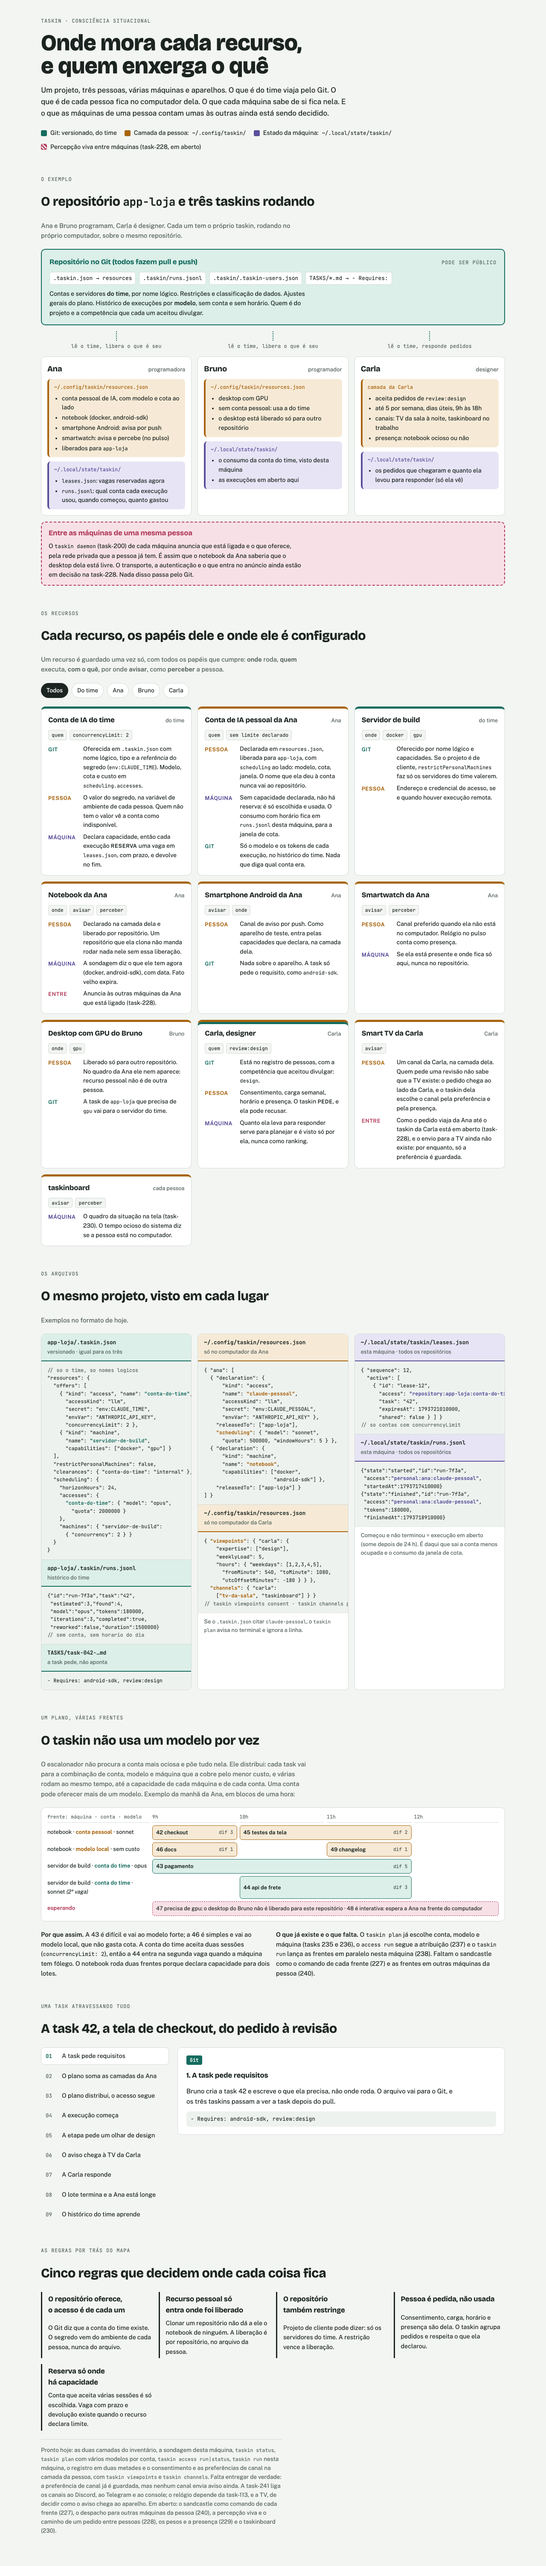
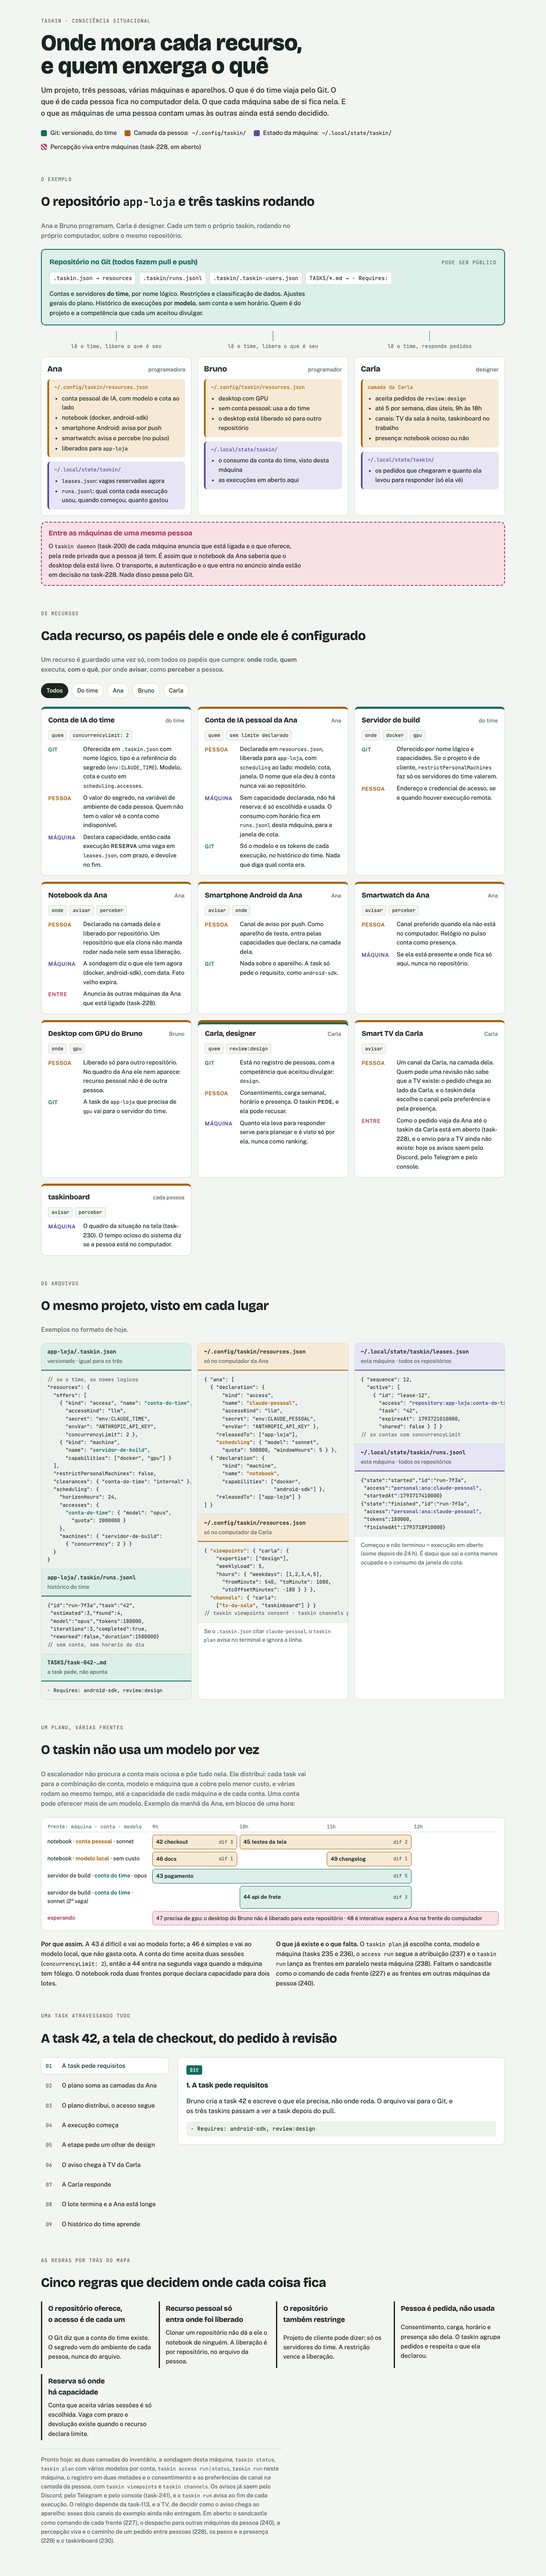
docs(task-241): o mapa, o RDT e a task depois do lote 8
O mapa e o RDT dizem que os avisos ja saem por Discord, Telegram e console, e
que o relogio e a TV ainda nao entregam. A task-241 registra o que a rodada nao
exercitou: o envio real, e os canais do exemplo do README que nao tem provedor.

diff --git a/docs/RDT/consciencia-situacional-mapa.html b/docs/RDT/consciencia-situacional-mapa.html
@@ -437,7 +437,7 @@ pre {
       <div class="chips"><span class="chip">avisar</span></div>
       <div class="rows">
         <div class="row"><b class="p">Pessoa</b><span>Um canal da Carla, na camada dela. Quem pede uma revisão não sabe que a TV existe: o pedido chega ao lado da Carla, e o taskin dela escolhe o canal pela preferência e pela presença.</span></div>
-        <div class="row"><b class="n">Entre</b><span>Como o pedido viaja da Ana até o taskin da Carla está em aberto (task-228), e o envio para a TV ainda não existe: por enquanto, só a preferência é guardada.</span></div>
+        <div class="row"><b class="n">Entre</b><span>Como o pedido viaja da Ana até o taskin da Carla está em aberto (task-228), e o envio para a TV ainda não existe: hoje os avisos saem pelo Discord, pelo Telegram e pelo console.</span></div>
       </div>
     </article>
 
@@ -618,7 +618,7 @@ pre {
     <div class="rule"><h3>Pessoa é pedida, não usada</h3><p>Consentimento, carga, horário e presença são dela. O taskin agrupa pedidos e respeita o que ela declarou.</p></div>
     <div class="rule"><h3>Reserva só onde há capacidade</h3><p>Conta que aceita várias sessões é só escolhida. Vaga com prazo e devolução existe quando o recurso declara limite.</p></div>
   </div>
-  <p class="status-note">Pronto hoje: as duas camadas do inventário, a sondagem desta máquina, <code>taskin status</code>, <code>taskin plan</code> com vários modelos por conta, <code>taskin access run|status</code>, <code>taskin run</code> nesta máquina, o registro em duas metades e o consentimento e as preferências de canal na camada da pessoa, com <code>taskin viewpoints</code> e <code>taskin channels</code>. Falta entregar de verdade: a preferência de canal já é guardada, mas nenhum canal envia aviso ainda. A task-241 liga os canais ao Discord, ao Telegram e ao console; o relógio depende da task-113, e a TV, de decidir como o aviso chega ao aparelho. Em aberto: o sandcastle como comando de cada frente (227), o despacho para outras máquinas da pessoa (240), a percepção viva e o caminho de um pedido entre pessoas (228), os pesos e a presença (229) e o taskinboard (230).</p>
+  <p class="status-note">Pronto hoje: as duas camadas do inventário, a sondagem desta máquina, <code>taskin status</code>, <code>taskin plan</code> com vários modelos por conta, <code>taskin access run|status</code>, <code>taskin run</code> nesta máquina, o registro em duas metades e o consentimento e as preferências de canal na camada da pessoa, com <code>taskin viewpoints</code> e <code>taskin channels</code>. Os avisos já saem pelo Discord, pelo Telegram e pelo console (task-241), e o <code>taskin run</code> avisa ao fim de cada execução. O relógio depende da task-113, e a TV, de decidir como o aviso chega ao aparelho: esses dois canais do exemplo ainda não entregam. Em aberto: o sandcastle como comando de cada frente (227), o despacho para outras máquinas da pessoa (240), a percepção viva e o caminho de um pedido entre pessoas (228), os pesos e a presença (229) e o taskinboard (230).</p>
 </section>
 
 </div>
@@ -656,7 +656,7 @@ pre {
       p: 'O agente chega ao review:design e abre um pedido em vez de adivinhar. O registro de pessoas, que é versionado, diz quem aceitou divulgar a competência design: a Carla. O agente segue com a próxima task do lote enquanto espera.',
       cmd: 'ViewpointRequested → reviewer: carla, expertise: design' },
     { t: 'O aviso chega à TV da Carla', where: ['person', 'live'],
-      p: 'São 19h e a Carla está em casa. O taskin dela escolhe o canal pela preferência e pela presença: a TV da sala. A Ana nunca soube que a TV existe. Como o pedido sai da máquina da Ana e chega ao lado da Carla está em decisão na task-228, e nenhum canal envia aviso ainda (task-241): por enquanto, só a preferência dela é guardada.',
+      p: 'São 19h e a Carla está em casa. O taskin dela escolhe o canal pela preferência e pela presença: a TV da sala. A Ana nunca soube que a TV existe. Como o pedido sai da máquina da Ana e chega ao lado da Carla está em decisão na task-228, e o envio para a TV ainda não existe: hoje os avisos saem pelo Discord, pelo Telegram e pelo console (task-241).',
       cmd: 'canal: tv-da-sala (camada da Carla)' },
     { t: 'A Carla responde', where: ['git', 'machine'],
       p: 'Ela aceita e entrega a opinião. A resposta volta registrada na task, como evidência. Quanto ela levou para responder fica só com ela.',

diff --git a/TASKS/task-241-os-canais-entregam-o-aviso-de-verdade.md b/TASKS/task-241-os-canais-entregam-o-aviso-de-verdade.md
@@ -31,6 +31,10 @@ O `taskin channels prefer` guarda os canais de cada pessoa na camada dela, mas n
 Depende da task-238 (`taskin run`) e da task-239 (`channels` local).
 A menção à pessoa no Discord é da task-068: aqui o aviso só chega ao webhook configurado.
 
+### O que ficou da rodada
+- O envio real ao Discord e ao Telegram não foi exercitado: os testes usam provedores falsos e o canal `console`. Conferir com credenciais de verdade fica para a revisão.
+- Só `discord`, `telegram` e `console` têm provedor: `taskin channels prefer watch taskinboard`, o exemplo do README, grava a preferência, mas esses dois canais recusam o aviso.
+
 ### Contexto da rodada
 - Ler: `packages/situation/src/system/plugins/channels/channels.types.ts`, `packages/situation/src/local/channels.local.ts`, `packages/cli/src/lib/notification/notify-helper.ts` e `notification-manager.ts`, `packages/cli/src/lib/notification/providers/console-provider.ts`, `packages/cli/src/commands/viewpoints.ts` (`openChannels`) e `run.ts` (`launch`).
 - Não ler: o escalonador, o access broker, o `design-vue`.

diff --git a/docs/RDT/consciencia-situacional.md b/docs/RDT/consciencia-situacional.md
@@ -734,10 +734,9 @@ entre modelos, contas e máquinas:
 
 O lote 7 está fechado. Ele rodou sobre os commits das tasks 231 a 234, antes da
 revisão deles, e o que falta para a distribuição valer de ponta a ponta é a 227
-e a 240. A preferência de canal já mora na camada da pessoa, mas o `channels`
-ainda não tem quem entregue: nenhum canal envia o aviso. A task-241 liga os
-canais aos provedores que já existem (Discord, Telegram, console); o relógio
-depende da task-113, e a TV, de decidir como o aviso chega ao aparelho.
+e a 240. O lote 8 (task-241) ligou os canais aos provedores que já existem
+(Discord, Telegram, console); o relógio depende da task-113, e a TV, de decidir
+como o aviso chega ao aparelho.
 
 ## Decisões em aberto
 
